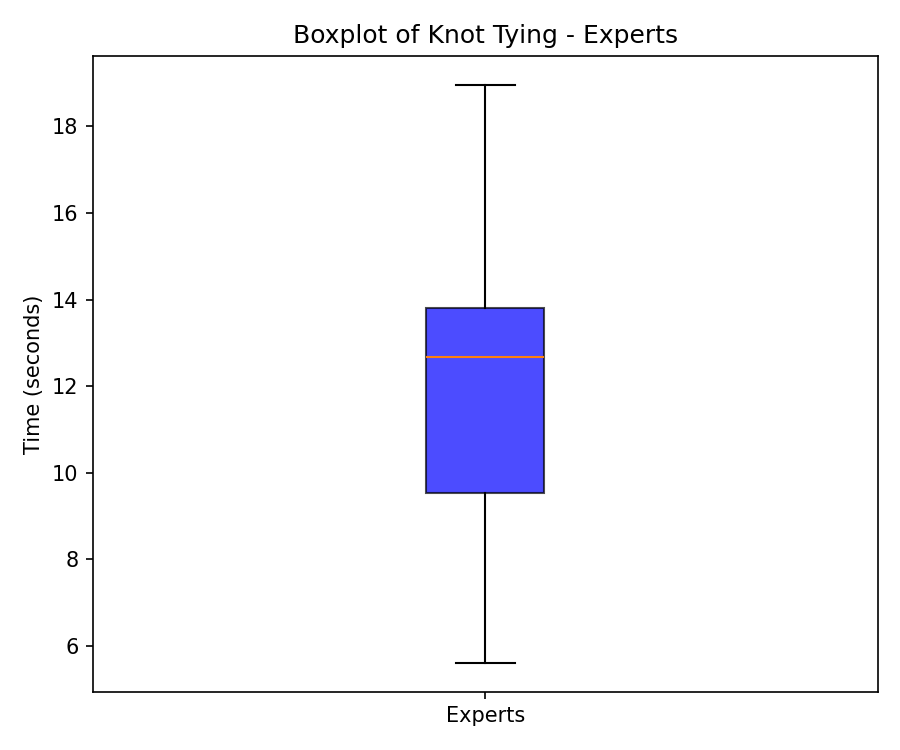
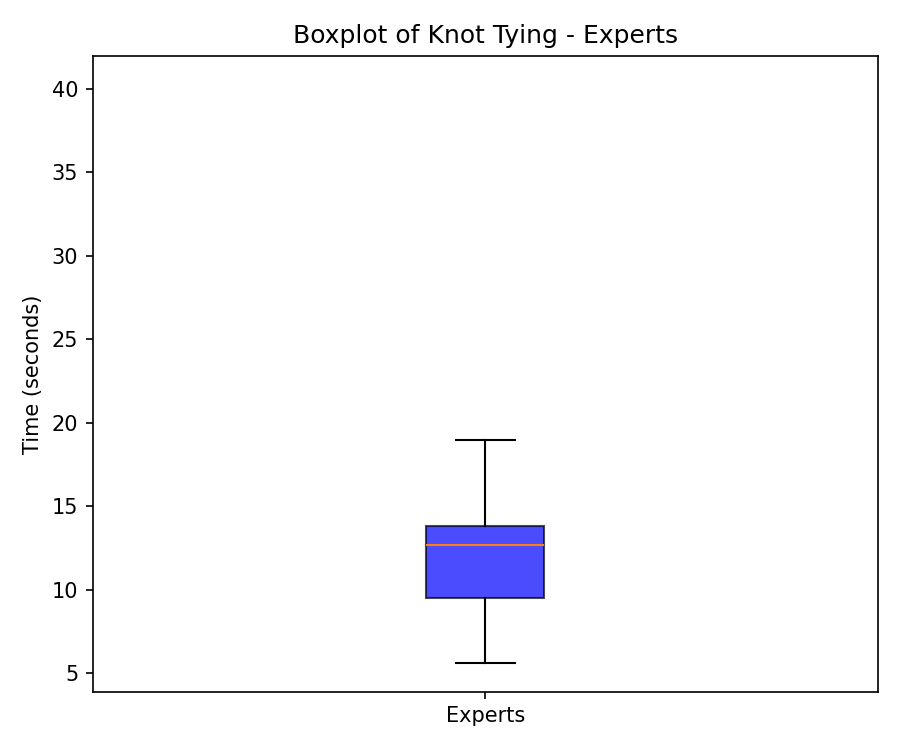
Updated for submission.
Report updated to reflect a more 'report style' instead of bullet points.

Figures updated to have the same axis for box plots.

diff --git a/question1.py b/question1.py
@@ -153,9 +153,10 @@ def plot_histogram(data, group_name, task_name, color):
     plt.show()
 
 
-def plot_boxplot(data, group_name, task_name, color):
+def plot_boxplot(data, group_name, task_name, color, ylim=None):
     '''
     Plot a single boxplot for one group.
+    ylim: optional (ymin, ymax) tuple to enforce a shared y-axis scale across groups.
     '''
     plt.figure(figsize=(6, 5))
     bp = plt.boxplot(data, patch_artist=True)
@@ -164,6 +165,8 @@ def plot_boxplot(data, group_name, task_name, color):
     plt.title(f'Boxplot of {task_name} - {group_name}')
     plt.ylabel('Time (seconds)')
     plt.xticks([1], [group_name])
+    if ylim is not None:
+        plt.ylim(ylim)
     plt.tight_layout()
     plt.savefig(f'figures/boxplot_{task_name.lower().replace(" ", "_")}_{group_name.lower()}.png', dpi=150)
     plt.show()
@@ -184,6 +187,14 @@ def generate_all_figures():
 
     figure_count = 0
     for param_name, exp_data, nov_data in params:
+        # Compute shared y-axis range so expert and novice boxplots use the same scale,
+        # making visual comparison easier. 5% padding added for readability.
+        all_values = exp_data + nov_data
+        ymin = min(all_values)
+        ymax = max(all_values)
+        padding = (ymax - ymin) * 0.05
+        shared_ylim = (ymin - padding, ymax + padding)
+
         # Expert histogram
         plot_histogram(exp_data, 'Experts', param_name, 'blue')
         figure_count += 1
@@ -194,13 +205,13 @@ def generate_all_figures():
         figure_count += 1
         print(f"Figure {figure_count}: Histogram - {param_name} - Novices")
 
-        # Expert boxplot
-        plot_boxplot(exp_data, 'Experts', param_name, 'blue')
+        # Expert boxplot (shared y-axis with novice)
+        plot_boxplot(exp_data, 'Experts', param_name, 'blue', ylim=shared_ylim)
         figure_count += 1
         print(f"Figure {figure_count}: Boxplot - {param_name} - Experts")
 
-        # Novice boxplot
-        plot_boxplot(nov_data, 'Novices', param_name, 'orange')
+        # Novice boxplot (shared y-axis with expert)
+        plot_boxplot(nov_data, 'Novices', param_name, 'orange', ylim=shared_ylim)
         figure_count += 1
         print(f"Figure {figure_count}: Boxplot - {param_name} - Novices")
 

diff --git a/readme.md b/readme.md
@@ -23,8 +23,6 @@ python question5.py  # Metric ranking
 
 ### 1.1 Summary Statistics
 
-All statistics were calculated analytically without using Python statistical libraries as noted in the requirements of the CW.
-
 #### Table 1: Descriptive Statistics for Time Parameters (Seconds)
 
 | Group | Parameter | Mean | Median | Variance | Skewness | Kurtosis |
@@ -36,15 +34,11 @@ All statistics were calculated analytically without using Python statistical lib
 | Novices | Needle Passing | 34.27 | 30.12 | 283.64 | 1.4997 | 4.8031 |
 | Novices | Knot Tying | 21.37 | 16.44 | 70.57 | 0.9840 | 2.7558 |
 
-**Key observations:**
-- Novices consistently show higher mean and median values across all parameters
-- Novices exhibit greater variance, indicating more heterogeneous performance
-- Positive skewness in novice data suggests right-tailed distributions with some participants taking considerably longer
+The above table shows the results for the descriptive statistics taken for the time taken for tasks to be completed by novices and experts. It shows the novices consistently have higher median and mean values across all statistics indicating that their lack of experience requires them to complete tasks at a slower pace; this could also be a result of them making errors along the way. Novices also exhibit greater variance, suggesting that on some attempts the novices are able to complete the task much faster; possibly due to luck or an absence of errors; alternatively this could be the result of outliers (i.e., one novice being particularly skilled). Finally, the positive skewness of the novice data suggests a right-tailed distribution, with some participants taking considerably longer.
 
 ### 1.2 Histograms and Boxplots
 
-Twelve figures were generated (3 time parameters x 2 plot types x 2 groups):
-
+Twelve figures were generated as per QU1 requirements - It should be noted that all box plots have shared axis to show a comparison; whereas histograms use per group axis to show the distribution:
 #### Total Duration
 
 | | Experts | Novices |
@@ -66,7 +60,7 @@ Twelve figures were generated (3 time parameters x 2 plot types x 2 groups):
 | **Histogram** | ![Figure 9](figures/histogram_knot_tying_experts.png) | ![Figure 10](figures/histogram_knot_tying_novices.png) |
 | **Boxplot** | ![Figure 11](figures/boxplot_knot_tying_experts.png) | ![Figure 12](figures/boxplot_knot_tying_novices.png) |
 
-The plots visually confirm that novice distributions are shifted toward higher values with greater spread compared to experts.
+The plots confirm that novice distributions are shifted toward higher values with greater spread compared to experts.
 
 ### 1.3 Outlier Identification
 
@@ -83,10 +77,7 @@ Outliers were identified using the IQR method: values below Q1 - 1.5*IQR or abov
 | Novices | Needle Passing | 23.34 | 40.26 | 16.92 | -2.04 | 65.64 | **79.04** |
 | Novices | Knot Tying | 14.92 | 27.04 | 12.12 | -3.26 | 45.22 | None |
 
-**Observations:**
-- 3 outliers identified across all datasets
-- Needle Passing shows outliers in both groups
-- Novice Total Duration has one extreme outlier (191.28 sec)
+3 outliers were identified across all data, with Needle Passing being the only parameter to show outliers in both groups. This aligns with it also having the highest variability as demonstrated in the robustness analysis below. The most severe outlier belongs to a novice participant in Total Duration (~ 191 seconds), which is substantially above the upper bound and may reflect a particularly difficult attempt or a significant error being made.
 
 ### 1.4 Robustness Analysis
 
@@ -100,11 +91,7 @@ Robustness was assessed using the Coefficient of Variation (CV = Standard Deviat
 | Needle Passing | 27.9% | 49.1% | 50.7% |
 | Knot Tying | 33.7% | 39.3% | 47.1% |
 
-**Conclusion on Robustness:**
-- **Most robust parameter: Total Duration** (CV = 38.3%)
-- **Least robust parameter: Needle Passing** (CV = 50.7%)
-
-Total Duration presents the smallest relative dispersion, making it the most reliable metric for comparing performance between groups. Needle Passing shows the highest variability, particularly among novices (49.1%), suggesting this subtask is most sensitive to individual differences in skill level.
+Total Duration is the most robust parameter with the lowest combined CV of 38.3%, presenting the smallest relative dispersion and making it the most reliable metric for comparing performance between groups. On the other hand, Needle Passing is the least robust parameter (CV = 50.7%), showing the highest variability particularly among novices (49.1%). Suggesting that the needle passing task is the most sensitive to individual differences in skill level, and its high variability may reduce its reliability as a standalone performance indicator.
 
 ---
 
@@ -112,12 +99,7 @@ Total Duration presents the smallest relative dispersion, making it the most rel
 
 ### 2.1 Test Selection Justification
 
-**Selected Test: Mann-Whitney U Test (Wilcoxon rank-sum test)**
-
-**Rationale:**
-1. **Sample size**: Small samples (n=9 experts, n=11 novices) limit the reliability of parametric assumptions
-2. **Normality violations**: Shapiro-Wilk tests revealed non-normal distributions for several parameters (see Table 4)
-3. **Non-parametric robustness**: Mann-Whitney U does not assume normality and is appropriate for comparing two independent groups
+The Mann-Whitney U test was selected for comparing expert and novice time parameters. This choice was driven by the small sample sizes (n=9 experts, n=11 novices), which limit the reliability of parametric assumptions, and by the Shapiro-Wilk normality tests which revealed non-normal distributions for several parameters (see Table 4). The Mann-Whitney U test does not assume normality and is therefore, appropriate for comparing 2 independent groups, making it a suitable test given the aforementioned.
 
 ### 2.2 Normality Testing
 
@@ -127,12 +109,12 @@ Total Duration presents the smallest relative dispersion, making it the most rel
 |-------|-----------|-------------|---------|---------|
 | Experts | Total Duration | 0.9277 | 0.4593 | Yes |
 | Novices | Total Duration | 0.8862 | 0.1244 | Yes |
-| Experts | Needle Passing | 0.8338 | 0.0492 | **No** |
-| Novices | Needle Passing | 0.8463 | 0.0382 | **No** |
+| Experts | Needle Passing | 0.8338 | 0.0492 | No |
+| Novices | Needle Passing | 0.8463 | 0.0382 | No |
 | Experts | Knot Tying | 0.9455 | 0.6406 | Yes |
-| Novices | Knot Tying | 0.8338 | 0.0262 | **No** |
+| Novices | Knot Tying | 0.8338 | 0.0262 | No |
 
-Three of six datasets violate normality assumptions, justifying the use of non-parametric testing.
+3 of the 6 data groups violate normality assumptions, justifying the use of non-parametric testing.
 
 ### 2.3 Homogeneity of Variance
 
@@ -144,7 +126,7 @@ Three of six datasets violate normality assumptions, justifying the use of non-p
 | Needle Passing | 2.4074 | 0.1382 | Yes |
 | Knot Tying | 1.5189 | 0.2336 | Yes |
 
-While variances are homogeneous, the normality violations still warrant non-parametric testing.
+While variances are homogeneous, the normality violations suggest that non-parametric testing should be adopted.
 
 ### 2.4 Statistical Test Results
 
@@ -180,15 +162,9 @@ While variances are homogeneous, the normality violations still warrant non-para
 
 ### 2.6 Interpretation of Results
 
-**All three time parameters show statistically significant differences between experts and novices (p < 0.05).**
+All 3 time parameters show statistically significant differences between experts and novices (p < 0.05). The Total Duration demonstrates the strongest evidence of group separation (p = 0.0011, d = -1.56), indicating that experts complete the entire suturing task significantly faster than novices. Knot Tying follows with strong significance (p = 0.0062, d = -1.29), suggesting that this subtask is a key differentiator of skill level. Needle Passing also reaches significance (p = 0.0402, d = -0.94); however, this parameter has the smallest effect size among the three and a p-value closer to the significance threshold, making it a less reliable discriminator.
 
-1. **Total Duration** (p = 0.0011, d = -1.56): Experts complete the entire task significantly faster than novices. The large effect size indicates a substantial practical difference.
-
-2. **Needle Passing** (p = 0.0402, d = -0.94): Experts are significantly faster at needle passing. This has the smallest effect among the three parameters but remains practically significant.
-
-3. **Knot Tying** (p = 0.0062, d = -1.29): Experts tie knots significantly faster. The large effect size suggests this is a key differentiator of surgical skill.
-
-The negative Cohen's d values indicate experts have lower (faster) times compared to novices.
+The negative Cohen's d values across all three parameters indicate that experts consistently have lower (i.e., faster) times compared to novices, which is consistent with the descriptive statistics presented in QU 1.
 
 ---
 
@@ -241,7 +217,9 @@ Following the coursework specification, errors were counted based on deviations 
 
 ![Figure 16: Error Metric Box Plot](figures/boxplot_q3_error_metric.png)
 
-*Both groups show similar distributions of error counts, with median values of 1.0.*
+*The box plot above shows that despite both groups showing similar distributions of error counts, with median values of 1.0. The actual distribution of the errors is much different, with the experts having almost no variation - With all errors being as a result of S2 being present, or S3 being absent. This consistent error could therefore be attributed to the experience of the surgeons.*
+
+
 
 ### 3.3 Descriptive Statistics
 
@@ -254,13 +232,7 @@ Following the coursework specification, errors were counted based on deviations 
 
 ### 3.4 Test Selection Justification
 
-**Selected Test: Mann-Whitney U Test**
-
-**Rationale:**
-1. **Discrete count data**: Error counts are discrete integers (0, 1, 2, ...), not continuous measurements
-2. **Non-normal distributions**: Shapiro-Wilk tests indicate non-normality (Experts: p = 0.0122; Novices: p = 0.0183)
-3. **Small sample sizes**: n=9 experts, n=11 novices
-4. **Ordinal nature**: Error counts represent ordinal levels of performance deviation
+The Mann-Whitney U test was selected for the error metric analysis. Error counts are discrete integers (0, 1, 2, ...) rather than continuous measurements, and the Shapiro-Wilk tests confirm non-normal distributions for both groups (Experts: p = 0.0122; Novices: p = 0.0183). Combined with the small sample sizes (n=9 experts, n=11 novices) and the ordinal nature of error counts, which represent ordered levels of performance deviation, a non-parametric approach is the most appropriate choice.
 
 ### 3.5 Normality Testing
 
@@ -268,8 +240,8 @@ Following the coursework specification, errors were counted based on deviations 
 
 | Group | W-statistic | p-value | Normal? |
 |-------|-------------|---------|---------|
-| Experts | 0.7805 | 0.0122 | **No** |
-| Novices | 0.8219 | 0.0183 | **No** |
+| Experts | 0.7805 | 0.0122 | No |
+| Novices | 0.8219 | 0.0183 | No |
 
 Both groups violate normality assumptions, confirming the appropriateness of non-parametric testing.
 
@@ -279,22 +251,13 @@ Both groups violate normality assumptions, confirming the appropriateness of non
 
 | Metric | Expert Median (IQR) | Novice Median (IQR) | U | p-value | Cohen's d | Significant? |
 |--------|---------------------|---------------------|---|---------|-----------|--------------|
-| Error Count | 1.0 (1.0-1.0) | 1.0 (0.0-1.0) | 53.0 | 0.7995 | 0.10 | **No** |
+| Error Count | 1.0 (1.0-1.0) | 1.0 (0.0-1.0) | 53.0 | 0.7995 | 0.10 | No |
 
 ### 3.7 Interpretation of Results
 
-**The error metric does NOT show a statistically significant difference between experts and novices (p = 0.7995).**
+The error metric does not show a statistically significant difference between experts and novices (p = 0.7995). Both groups have median error counts of 1.0, indicating that both groups are attempting to adhere to guidelines, and Cohen's d of 0.10 confirms a negligible practical difference. The most frequent error in both groups is S3 absent (skipping instrument selection), occurring in 7 of 9 experts and 6 of 11 novices, suggesting this deviation is common regardless of experience level.
 
-**Key findings:**
-1. **Similar error rates**: Both groups have median error counts of 1.0, indicating comparable procedural adherence
-2. **Negligible effect size**: Cohen's d = 0.10 indicates a negligible practical difference
-3. **Common error pattern**: The most frequent error in both groups is S3 absent (skipping instrument selection), occurring in 7/9 experts and 6/11 novices
-
-**Possible explanations:**
-- The task environment (training board rather than live surgery) may allow shortcuts without consequence
-- The error metric captures procedural deviations but not execution quality
-- Both groups received pre-task education, potentially standardizing procedural knowledge
-- Time-based metrics may be more sensitive discriminators of expertise than error counts in this context
+Several factors may explain the absence of a significant difference. The task environment (a training board rather than live surgery) may allow participants to take procedural shortcuts without consequence. Furthermore, the error metric captures procedural deviations (i.e., whether the correct gestures were performed) but does not account for execution quality (i.e., how well those gestures were performed). It is also possible that pre-task education standardised procedural knowledge across both groups, leaving time-based and gaze-based metrics as more sensitive discriminators of expertise. It is also acknowledged that the experts are making 'the same' amount of errors as the novices in significantly less time; so while the error values are similar in comparison, the reality is the experienced surgeons are doing it in significantly less time. Which suggests that the error analysis is not a good identifier of performance (Novices could simply taking more time to ensure they don't make an error - While experts could not making errors out of experience with the procedure).
 
 ---
 
@@ -306,8 +269,6 @@ Fixation sparsity quantifies the spatial distribution of gaze fixations during t
 
 **Fixation Sparsity = (Number of non-white pixels) / (Total pixels)**
 
-Where total pixels = 1920 x 1080 = 2,073,600 (image resolution)
-
 Higher sparsity indicates more dispersed gaze patterns; lower sparsity indicates more focused attention.
 
 #### Example Fixation Heatmaps
@@ -318,7 +279,7 @@ The heatmaps below illustrate the difference in gaze distribution between an exp
 |:-:|:-:|
 | ![Expert Heatmap](fixation_maps/fixation_maps/experts/e24.png) | ![Novice Heatmap](fixation_maps/fixation_maps/novice/n34.png) |
 
-*The expert shows a tightly concentrated fixation pattern, while the novice exhibits a more dispersed gaze across the visual field.*
+*The expert shows a tightly concentrated fixation pattern, while the novice exhibits a more dispersed pattern.*
 
 ### 4.2 Descriptive Statistics
 
@@ -329,24 +290,11 @@ The heatmaps below illustrate the difference in gaze distribution between an exp
 | Experts | 0.0344 (3.44%) | 0.0362 | 5.91e-05 | 0.0077 | 0.0276-0.0378 |
 | Novices | 0.0523 (5.23%) | 0.0516 | 1.77e-04 | 0.0133 | 0.0474-0.0626 |
 
-**Key observations:**
-- Novices show approximately 50% higher fixation sparsity than experts
-- Novices exhibit greater variance in sparsity values
-- Expert fixations are more concentrated (lower sparsity = more focused gaze)
+The above statistics reveal that novices show approximately 50% higher fixation sparsity than experts (5.23% vs 3.44%), indicating a substantially more dispersed fixation distribution. Novices also exhibit greater variance in their sparsity values, suggesting more heterogeneous visual attention strategies within the novice group. The lower sparsity among experts reflects a more concentrated and focused gaze pattern during the knot tying task.
 
 ### 4.3 Test Selection Justification
 
-**Selected Test: Independent t-test**
-
-**Rationale (data-driven selection):**
-1. **Normality satisfied**: Shapiro-Wilk tests confirm both groups are normally distributed
-   - Experts: W = 0.9581, p = 0.7784 (Normal)
-   - Novices: W = 0.9161, p = 0.2871 (Normal)
-2. **Equal variances**: Levene's test confirms homogeneity of variance
-   - Levene statistic = 1.7561, p = 0.2017 (Equal variance)
-3. **Continuous ratio data**: Sparsity is a continuous measure between 0 and 1
-
-Unlike Questions 2 and 3 where normality violations necessitated non-parametric testing, the fixation sparsity data meets parametric assumptions, allowing use of the more powerful t-test.
+An independent t-test was selected for the fixation sparsity comparison, following a data-driven test selection process. The Shapiro-Wilk tests confirm that both groups are normally distributed (Experts: W = 0.9581, p = 0.7784; Novices: W = 0.9161, p = 0.2871), and Levene's test confirms similarity of variance (statistic = 1.7561, p = 0.2017). As fixation sparsity is a continuous ratio  between the values of 0 and 1, all assumptions for a parametric test are satisfied. Unlike Questions 2 and 3 where normality violations necessitated non-parametric testing, the fixation sparsity data meets parametric assumptions.
 
 ### 4.4 Statistical Test Results
 
@@ -364,17 +312,9 @@ Unlike Questions 2 and 3 where normality violations necessitated non-parametric 
 
 ### 4.5 Interpretation of Results
 
-**Fixation sparsity shows a statistically significant difference between experts and novices (p = 0.0031).**
+Fixation sparsity shows a statistically significant difference between experts and novices (p = 0.0031), with Cohen's d = -1.57 indicating a substantial practical difference. Experts demonstrate lower sparsity (3.6%), reflecting concentrated visual attention on task-relevant areas, while novices exhibit higher sparsity (5.2%), indicating more dispersed fixation patterns across the visual field.
 
-**Key findings:**
-1. **Large effect size**: Cohen's d = -1.57 indicates a substantial practical difference
-2. **Experts show focused gaze**: Lower sparsity (3.6%) reflects concentrated visual attention on task-relevant areas
-3. **Novices show scattered gaze**: Higher sparsity (5.2%) indicates more dispersed fixation patterns across the visual field
-
-**Clinical interpretation:**
-- Experts demonstrate more efficient visual search strategies, focusing attention on critical task elements
-- Novices exhibit exploratory gaze behaviour, potentially indicating uncertainty or less developed mental models of the task
-- This aligns with eye-tracking research showing experts fixate on regions of interest before performing actions [3]
+From a clinical perspective, these results suggest that experts employ more efficient visual search strategies, focusing their attention on critical  elements. Novices, by contrast, exhibit more exploratory behaviour, which may indicate uncertainty or just less overall experience.
 
 ---
 
@@ -382,10 +322,7 @@ Unlike Questions 2 and 3 where normality violations necessitated non-parametric 
 
 ### 5.1 Ranking Criteria
 
-Metrics are ranked by their ability to discriminate between expert and novice surgeons based on:
-1. **Statistical significance** (p-value < 0.05)
-2. **Effect size magnitude** (|Cohen's d|)
-3. **Practical interpretability**
+Metrics are ranked by their ability to discriminate between expert and novice surgeons. The ranking considers statistical significance (p-value < 0.05) as the primary criterion, followed by effect size magnitude (|Cohen's d|) to assess the practical importance of any observed differences, and finally practical interpretability of the metric in a clinical context.
 
 ### 5.2 Summary of All Metrics
 
@@ -407,47 +344,15 @@ Metrics are ranked by their ability to discriminate between expert and novice su
 
 ### 5.3 Ranking Justification
 
-**1. Fixation Sparsity (Best Discriminator)**
-- Highest effect size (|d| = 1.57) and highly significant (p = 0.0031)
-- Captures cognitive differences in visual attention strategy
-- Parametric assumptions satisfied, providing robust statistical inference
-- Directly measures gaze behaviour differences between expertise levels
+Fixation Sparsity ranks as the best discriminator, achieving the highest effect size (|d| = 1.57) with strong statistical significance (p = 0.0031). It captures cognitive differences in visual attention strategy between the two groups, and its parametric assumptions are satisfied, providing robust statistical inference.
 
-**2. Total Duration**
-- Comparable effect size (|d| = 1.56) with lowest p-value (0.0011)
-- Most robust time parameter (lowest CV = 38.3% from Q1)
-- Holistic measure capturing overall task performance
-- Ranked second due to slightly lower effect size than fixation sparsity
+Total Duration ranks second with a comparable effect size (|d| = 1.56) and the lowest p-value of all metrics (p = 0.0011). It is also the most robust time parameter, as previous stated in Question 1. As a complete measure of overall task performance, it provides a practical and reliable indicator of surgical proficiency. It is ranked below fixation sparsity due to its slightly lower effect size.
 
-**3. Knot Tying Time**
-- Large effect size (|d| = 1.29) with strong significance (p = 0.0062)
-- Measures core surgical skill directly
-- More specific than total duration but less discriminating
+Knot Tying Time ranks third with a large effect size (|d| = 1.29) and strong significance (p = 0.0062). This parameter measures a core surgical skill directly, making it clinically meaningful, though it is more specific than total duration and less discriminating overall.
 
-**4. Needle Passing Time**
-- Large effect size (|d| = 0.94) but borderline significance (p = 0.0402)
-- Highest variability among time parameters (CV = 50.7%)
-- Less reliable discriminator due to high within-group variation
+Needle Passing Time ranks fourth. Although it achieves a large effect size (|d| = 0.94), its significance is borderline (p = 0.0402) and it exhibits the highest variability among time parameters (CV = 50.7%). This high within-group variation makes it a less reliable discriminator compared to the other time-based metrics.
 
-**5. Error Metric (Poorest Discriminator)**
-- Not statistically significant (p = 0.7995)
-- Negligible effect size (|d| = 0.10)
-- Both groups show similar procedural adherence
-- Does not capture execution quality, only sequence deviations
-
-### 5.4 Conclusions
-
-**Primary finding:** Eye-tracking derived metrics (fixation sparsity) and time-based metrics effectively discriminate between expert and novice ophthalmic surgeons, while procedural error counts do not.
-
-**Recommendations for skill assessment:**
-1. **Fixation sparsity** should be prioritized as a cognitive marker of expertise
-2. **Total duration** provides a reliable, easy-to-measure performance indicator
-3. **Error metrics** require refinement to capture execution quality, not just procedural deviations
-
-**Clinical implications:**
-- Training programmes could use gaze pattern analysis to provide targeted feedback
-- Time-based metrics offer practical assessment tools without specialized equipment
-- Procedural knowledge appears well-established across experience levels; skill differences manifest in execution efficiency and visual attention
+The Error Metric ranks last as the poorest discriminator. It is not statistically significant (p = 0.7995) and shows a negligible effect size (|d| = 0.10). Both groups demonstrate similar procedural adherence, and as previously mentioned, this metric fails to account for the time to complete the tasks - with novices taking significantly longer on average and therefore expected to be more careful. Noting that experts were most likely to skip 'S3' or instrument selection, likely out of experience more than in error.
 
 ---
 
